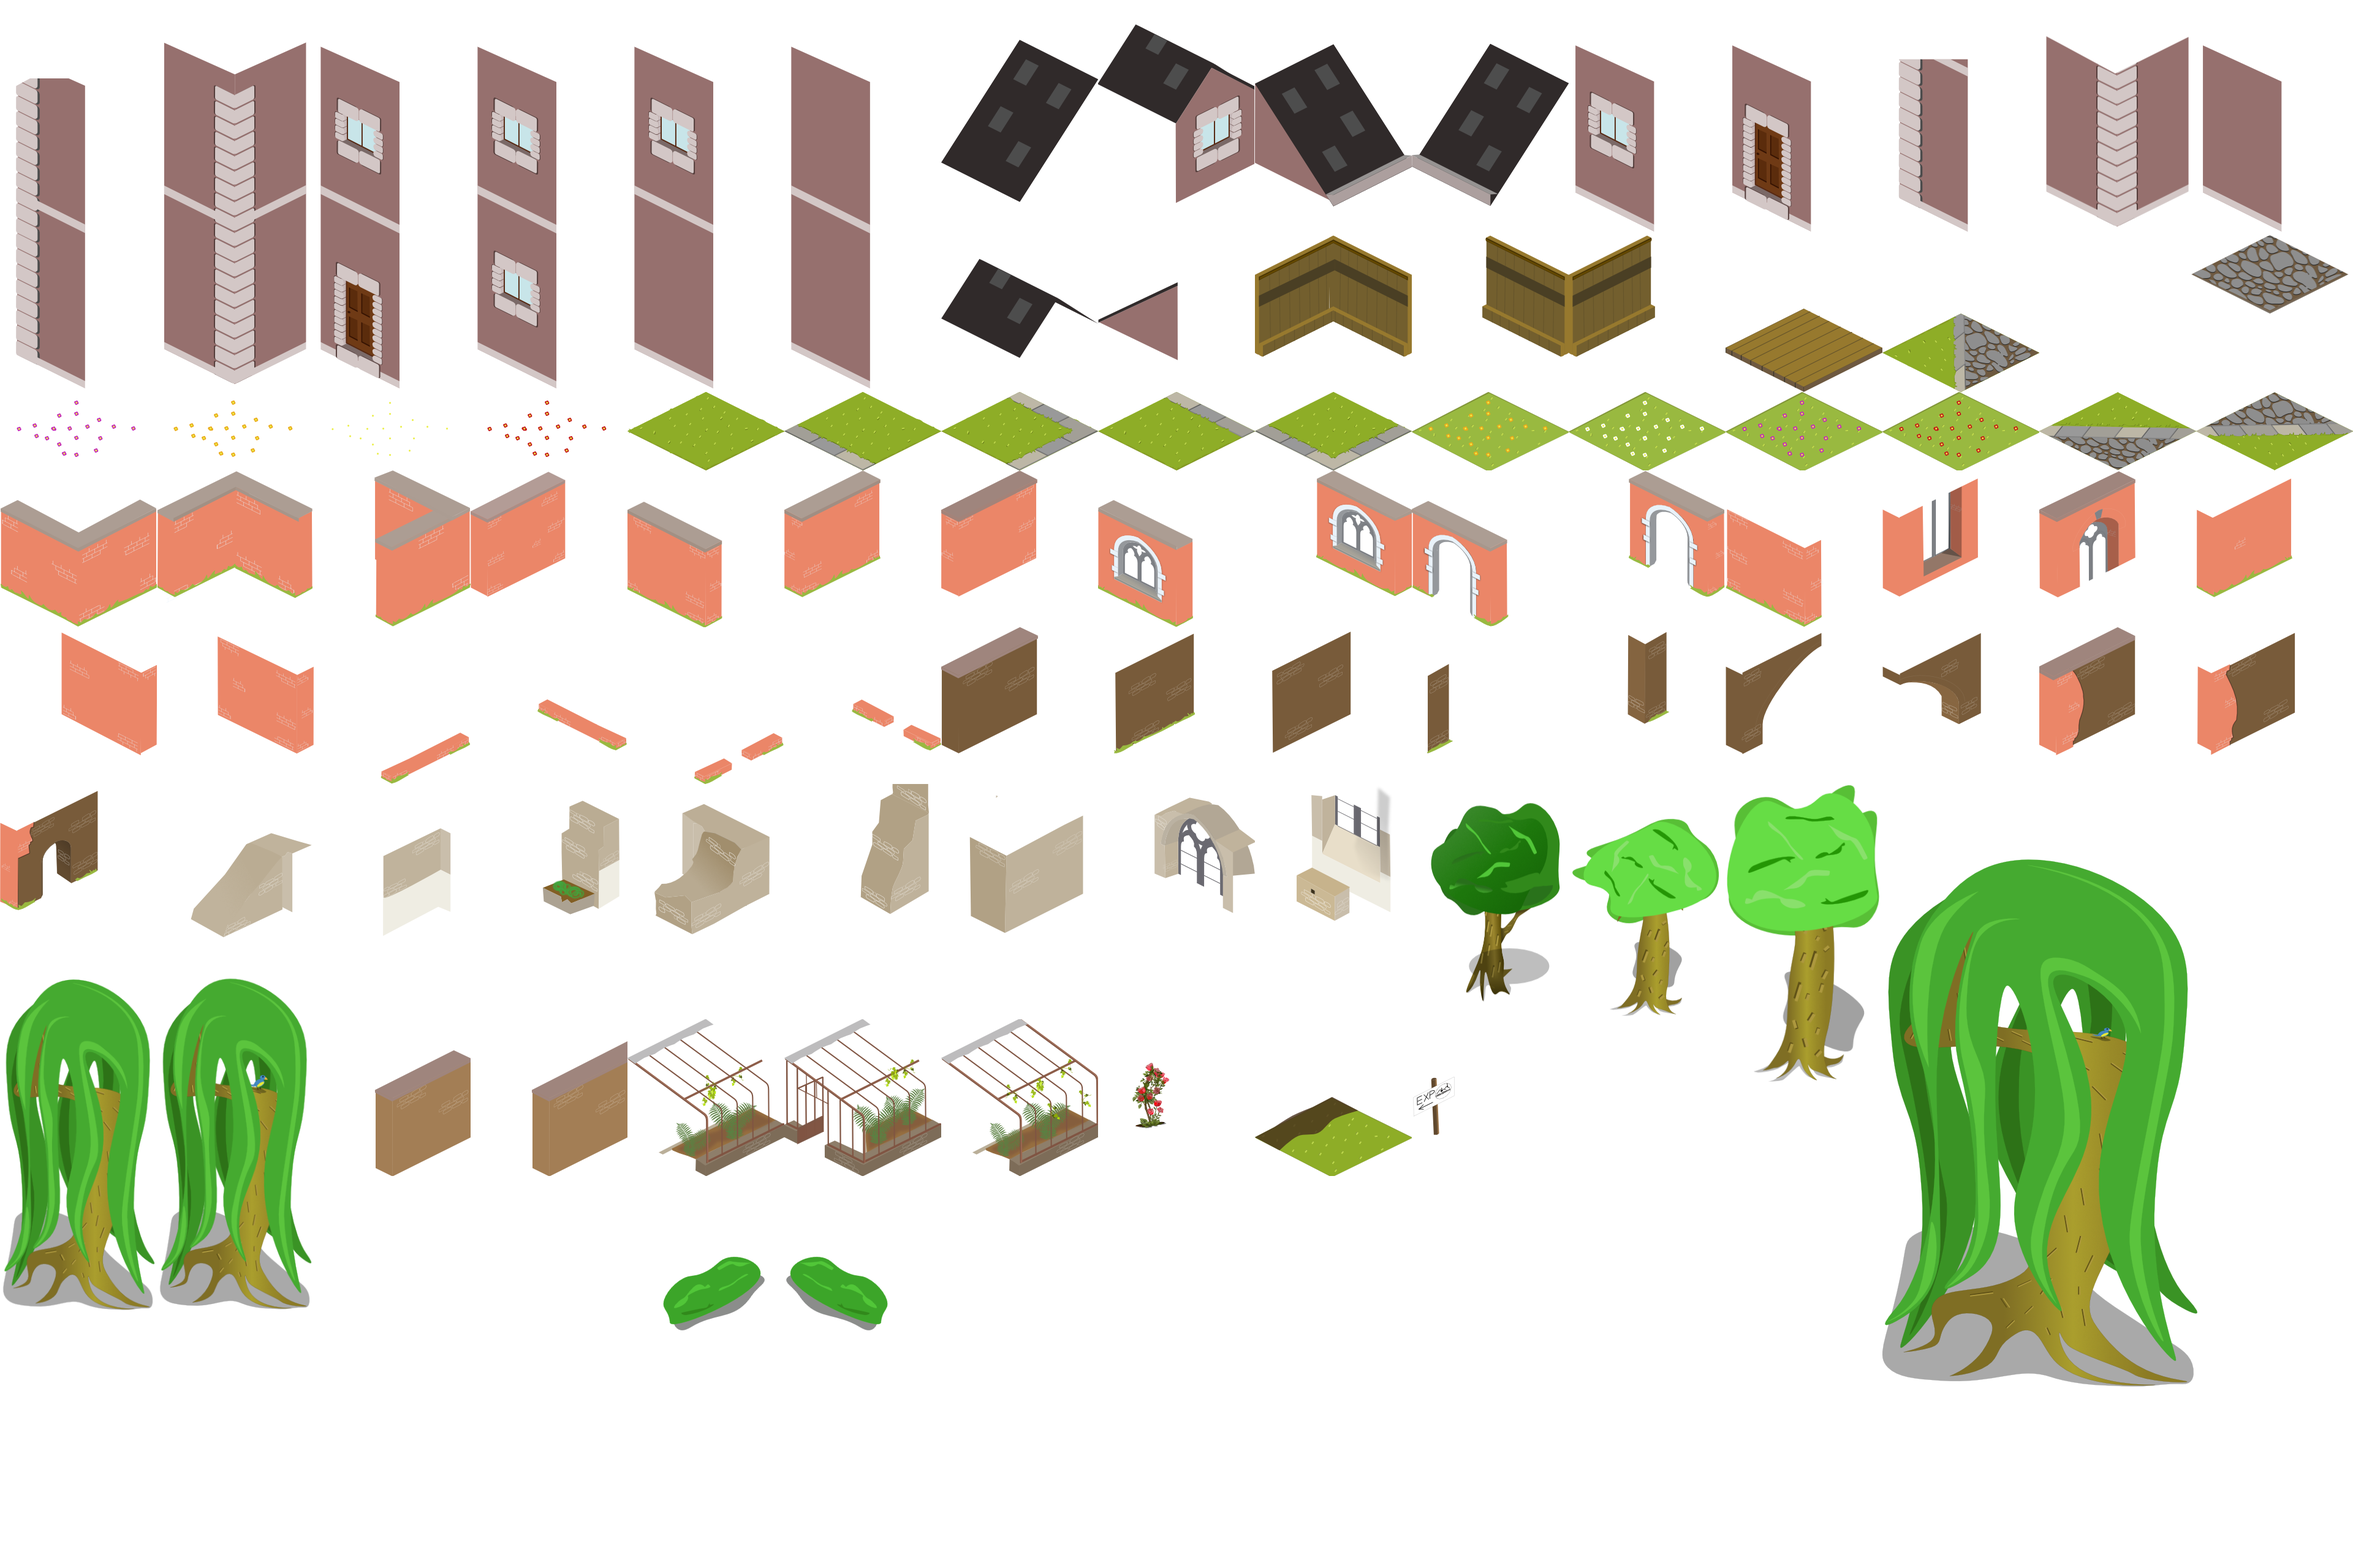
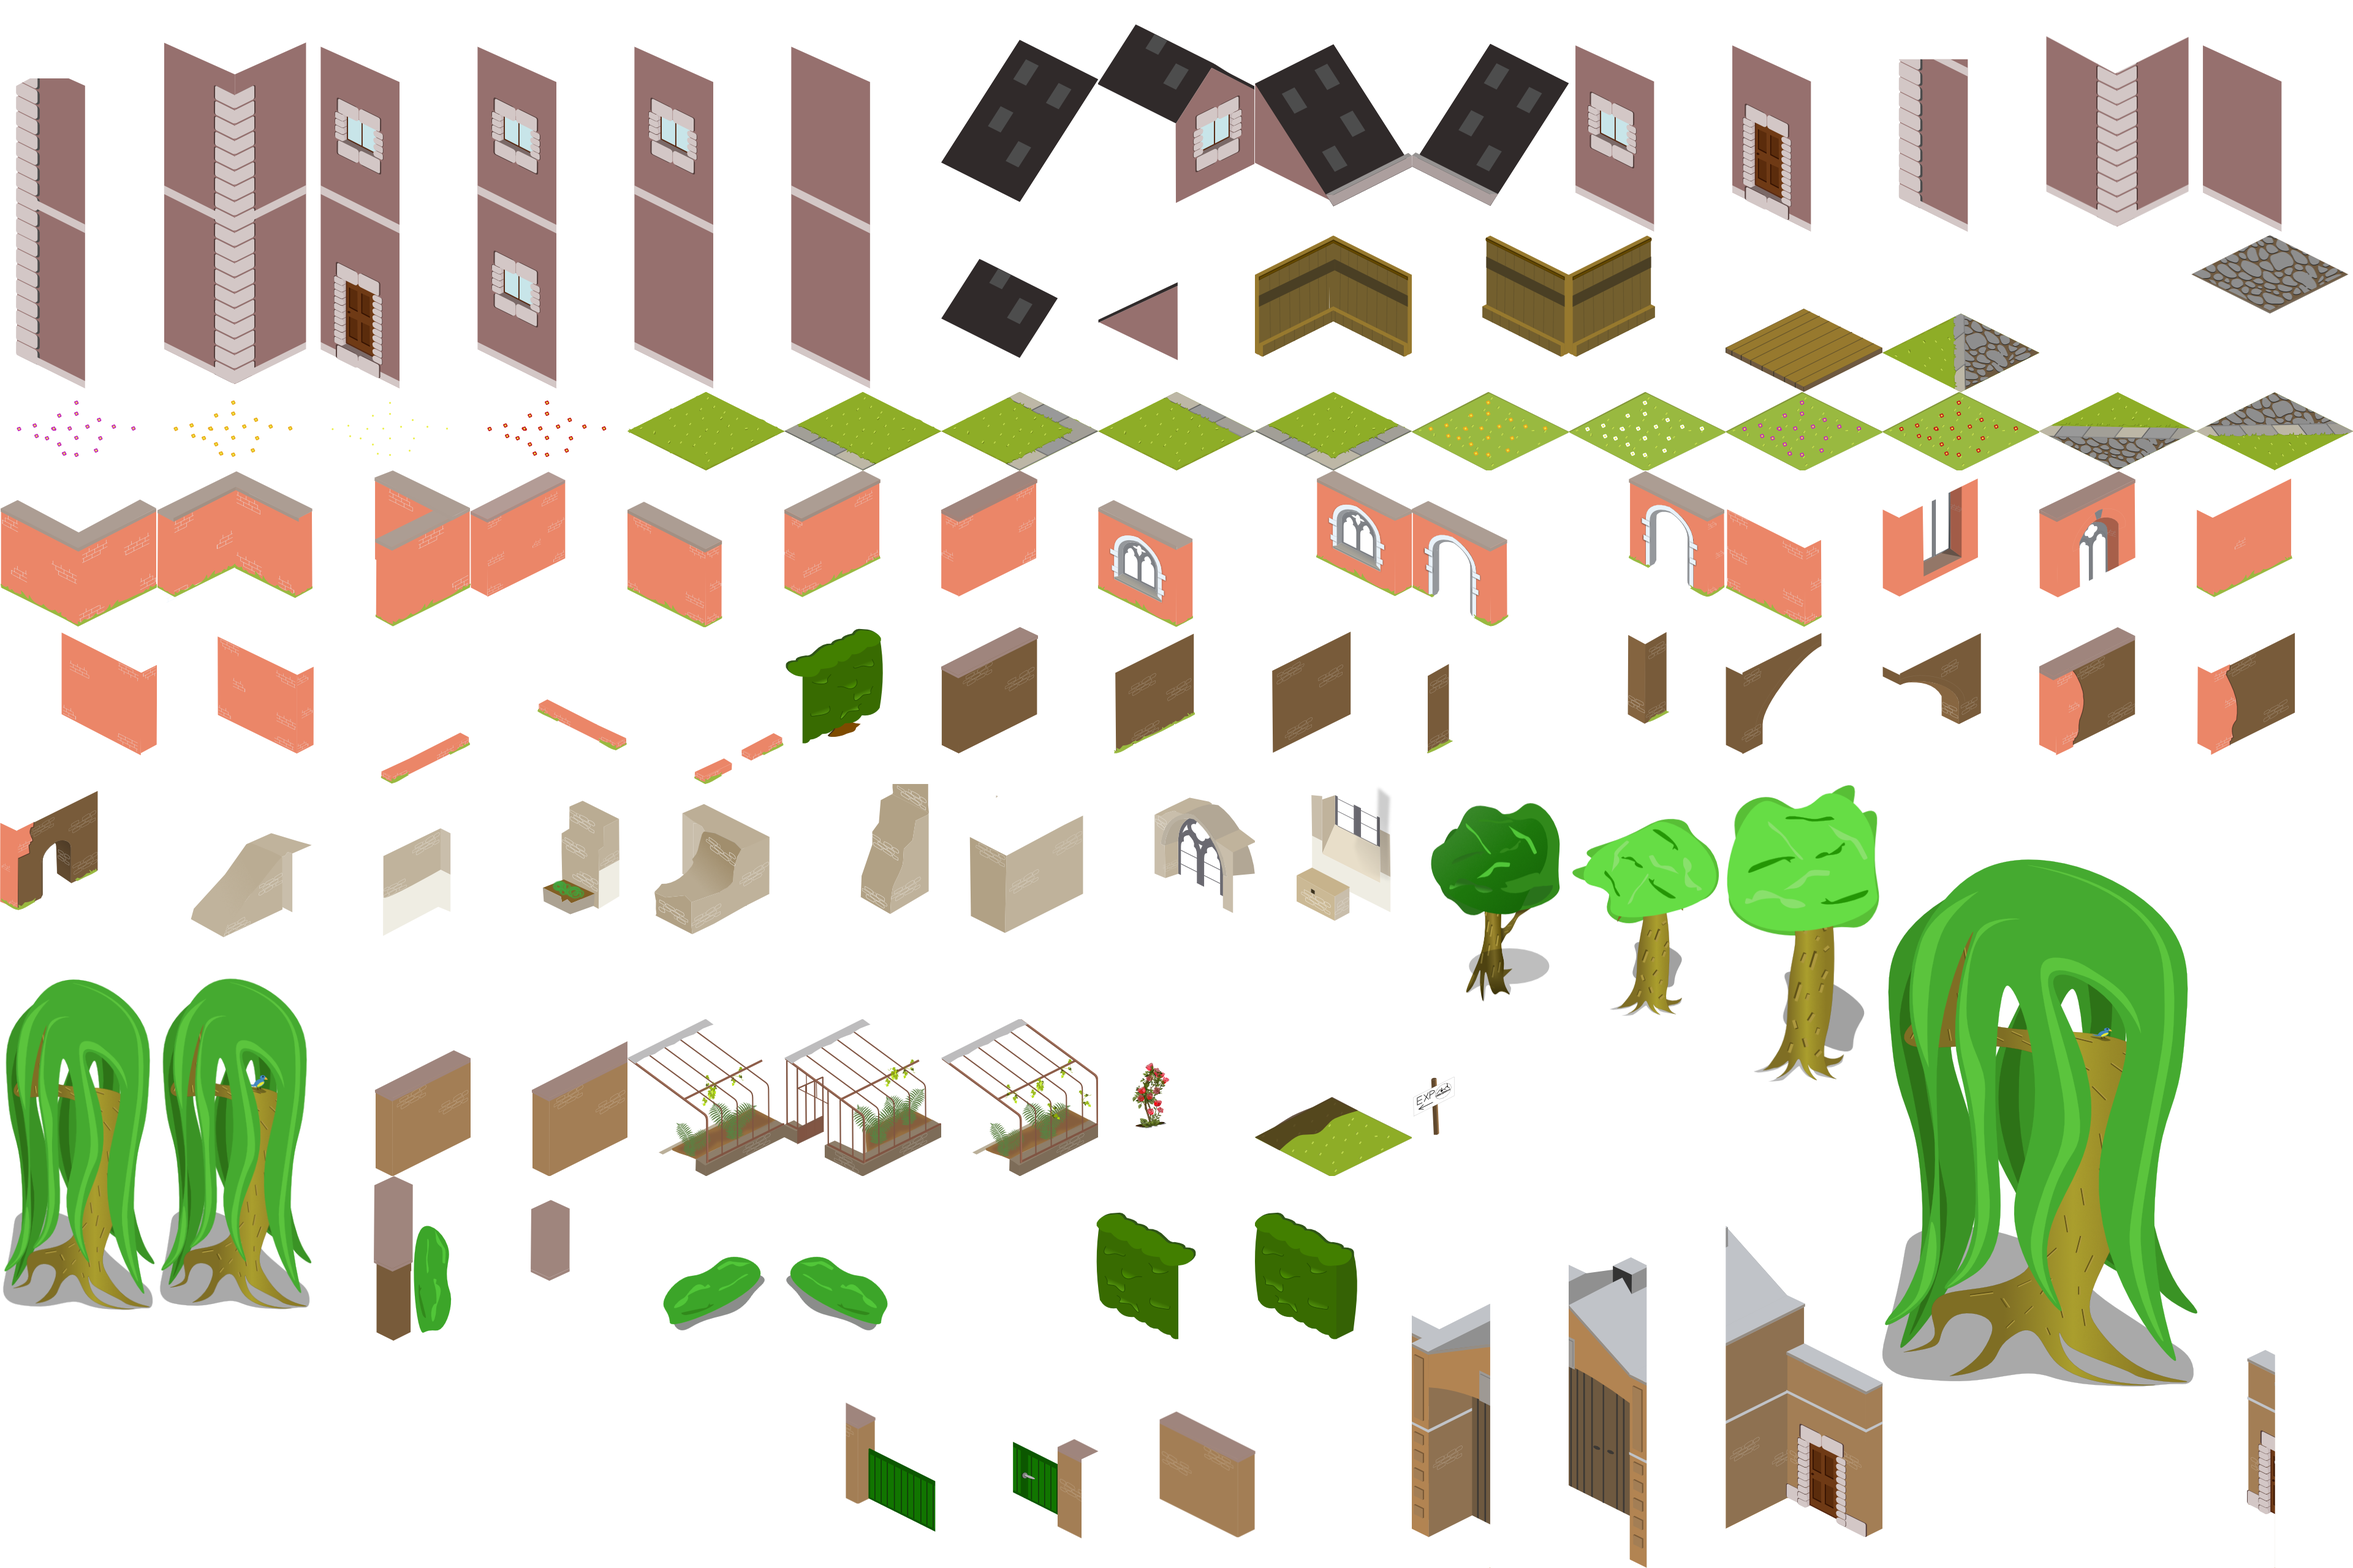
ajout grille, murs, noms de district

diff --git a/src/phaser/scenes/LoadScene.js b/src/phaser/scenes/LoadScene.js
@@ -97,8 +97,10 @@ var LoadScene = new Phaser.Class({
             //var layer40 = map.createLayer('tp', [tileset10]).setDepth(40);
             var layer50 = map.createLayer('ruine stage 2', [tileset10]).setDepth(50);
             var layer60 = map.createLayer('ruine top', [tileset10]).setDepth(60);
-            var layer70 = map.createLayer('ruine bottom', [tileset10]).setDepth(70);
+            var layer70 = map.createLayer('ruine bottom', [tileset10]).setDepth(70);            
             var layer80 = map.createLayer('ruine stage', [tileset10]).setDepth(80);
+            var layer85 = map.createLayer('murtest', [tileset10]).setDepth(85);
+
             var layer90 = map.createLayer('building bottom', [tileset10]).setDepth(90);
             var layer100 = map.createLayer('building top ', [tileset10]).setDepth(100);
             var layer110 = map.createLayer('building transparanse', [tileset10]).setDepth(110);
@@ -121,12 +123,12 @@ var LoadScene = new Phaser.Class({
             this.addHitboxDiag(350,250,-40,20,25,20); // diagonale côté mur
             this.addHitboxDiag(510,350,-40,20,25,16); // diagonale côté fleurs
         // Murs Ouest
-            let coinsMurs = [[-550,500,250],[-2600,1660,100],[-3150,2150,100],[-3650,2700,100],[-3550,2800,100]]; // quelques coins de murs
+            let coinsMurs = [[-550,500,250],[-2750,1710,100],[-3250,2220,100],[-3750,2950,100],[-3850,3000,100]]; // quelques coins de murs
             this.addHitbox(coinsMurs);
-            this.addHitboxDiag(-710,580,-80,40,50,25); // 1ère section de mur en partant du haut
-            this.addHitboxDiag(-2600,1760,-80,40,50,8); // 2ème section
-            this.addHitboxDiag(-3050,2250,-80,40,50,9); // 3ème section
-            this.addHitboxDiag(-3450,2850,-80,40,50,6); // 4ème section
+            this.addHitboxDiag(-710,580,-80,40,50,26); // 1ère section de mur en partant du haut
+            this.addHitboxDiag(-2760,1840,-80,40,50,7); // 2ème section
+            this.addHitboxDiag(-3290,2330,-80,40,50,7); // 3ème section
+            this.addHitboxDiag(-3750,2650,0,60,50,5); // 4ème section
             this.addHitboxDiag(-3900,3100,80,40,50,11);  // portion de mur qui rejoint le bâtiment sud
         // Mur Est
             this.addHitboxDiag(2400,1370,-80,40,50,21);
@@ -281,7 +283,7 @@ update: function(time, delta){
         }
         controls.update(delta);
         let plId = parseInt(localStorage.getItem("playerId"));
-        const speed = 600;
+        const speed = 1600;
         const prevVelocity = this.player.body.velocity.clone();
         //this.player.body.setVelocity(0);
         

diff --git a/src/phaser/scenes/DcRoom.js b/src/phaser/scenes/DcRoom.js
@@ -22,6 +22,7 @@ var DcRoom = new Phaser.Class({
             frameWidth: 85,
             frameHeight: 169
         });
+        this.load.image('nom_district', '/img/centre.png');
         // PICTURES
             // DISTRICT CENTRE
                 this.load.image('DCT1_00', '/img/visit/districtC/DC-T1/DCT1_00.png');
@@ -119,6 +120,7 @@ var DcRoom = new Phaser.Class({
         playerVelocity = 2;
         this.player.body.setVelocity(1,2).setBounce(1, 1).setCollideWorldBounds(true);
         cursors = this.input.keyboard.createCursorKeys();
+        this.nomDistrict = this.physics.add.image(120,1200,'nom_district').setDepth(40);
         //==========================================
         //  AJOUT DES COLLISIONS
         //==========================================

diff --git a/src/phaser/scenes/DoRoom.js b/src/phaser/scenes/DoRoom.js
@@ -22,6 +22,7 @@ var DoRoom = new Phaser.Class({
             frameWidth: 85,
             frameHeight: 169
         });
+        this.load.image('nom_district', '/img/ouest.png');
         // PICTURES
             // DISTRICT OUEST
                 this.load.image('DOT1_00', '/img/visit/districtO/DO-T1/DOT1_00.png');
@@ -119,6 +120,7 @@ var DoRoom = new Phaser.Class({
         playerVelocity = 2;
         this.player.body.setVelocity(1,2).setBounce(1, 1).setCollideWorldBounds(true);
         cursors = this.input.keyboard.createCursorKeys();
+        this.nomDistrict = this.physics.add.image(120,1200,'nom_district').setDepth(40);
         //==========================================
         //  AJOUT DES COLLISIONS
         //==========================================

diff --git a/src/phaser/scenes/DnRoom.js b/src/phaser/scenes/DnRoom.js
@@ -25,6 +25,7 @@ var DnRoom = new Phaser.Class({
             frameWidth: 85,
             frameHeight: 169
         });
+        this.load.image('nom_district', '/img/nord.png');
         // PICTURES
             // DISTRICT NORD
                 this.load.image('DNT1_00', '/img/visit/districtN/DN-T1/DNT1_00.jpg');
@@ -122,6 +123,7 @@ var DnRoom = new Phaser.Class({
         playerVelocity = 2;
         this.player.body.setVelocity(1,2).setBounce(1, 1).setCollideWorldBounds(true);
         cursors = this.input.keyboard.createCursorKeys();
+        this.nomDistrict = this.physics.add.image(120,1200,'nom_district').setDepth(40);
         //==========================================
         //  AJOUT DES COLLISIONS
         //==========================================

diff --git a/src/phaser/scenes/DsRoom.js b/src/phaser/scenes/DsRoom.js
@@ -22,6 +22,7 @@ var DsRoom = new Phaser.Class({
             frameWidth: 85,
             frameHeight: 169
         });
+        this.load.image('nom_district', '/img/sud.png');
         // PICTURES
             // DISTRICT SUD
                 this.load.image('DST1_00', '/img/visit/districtS/DS-T1/DST1_00.png');
@@ -116,6 +117,7 @@ var DsRoom = new Phaser.Class({
         playerVelocity = 2;
         this.player.body.setVelocity(1,2).setBounce(1, 1).setCollideWorldBounds(true);
         cursors = this.input.keyboard.createCursorKeys();
+        this.nomDistrict = this.physics.add.image(120,1200,'nom_district').setDepth(40);
         //==========================================
         //  AJOUT DES COLLISIONS
         //==========================================

diff --git a/src/phaser/scenes/DeRoom.js b/src/phaser/scenes/DeRoom.js
@@ -22,6 +22,7 @@ var DeRoom = new Phaser.Class({
             frameWidth: 85,
             frameHeight: 169
         });
+        this.load.image('nom_district', '/img/est.png');
         // PICTURES
         // DISTRICT EST
         this.load.image('DET1_00', '/img/visit/districtE/DE-T1/DET1_00.jpg');
@@ -117,6 +118,7 @@ var DeRoom = new Phaser.Class({
         playerVelocity = 2;
         this.player.body.setVelocity(1,2).setBounce(1, 1).setCollideWorldBounds(true);
         cursors = this.input.keyboard.createCursorKeys();
+        this.nomDistrict = this.physics.add.image(120,1200,'nom_district').setDepth(40);
         //==========================================
         //  AJOUT DES COLLISIONS
         //==========================================

diff --git a/src/website/visite.html b/src/website/visite.html
@@ -27,9 +27,7 @@
     <script src="../phaser/main.js"></script>
     <script>
         window.onload = function(){
-            //let coordEntrance = getCoordEntrance();
-            //console.table(game);
-            //Client.socket.emit('newplayer', localStorage.getItem('pseudo'),coordEntrance);
+
         }
     </script>
 </body>
